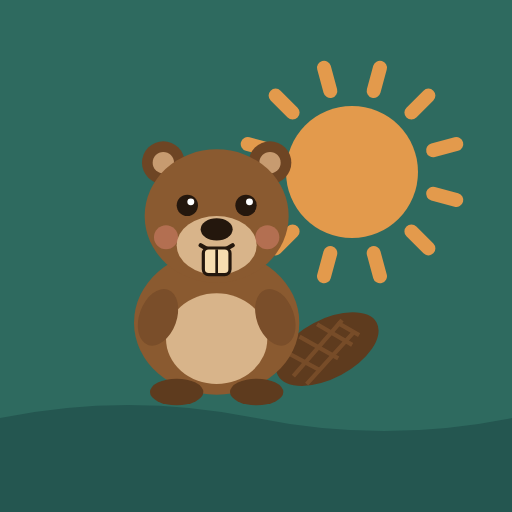
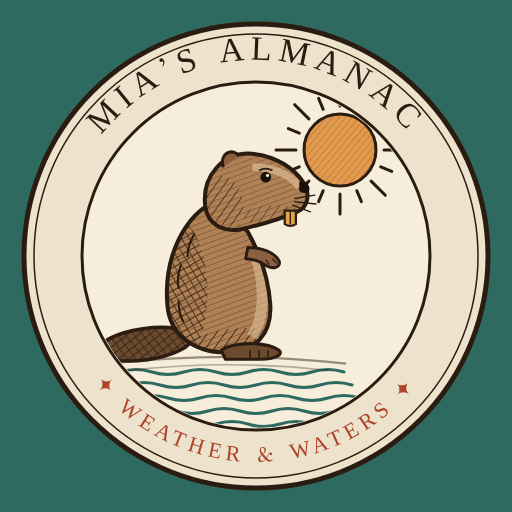
Redraw the beaver as an almanac engraving
- Side-view beaver in ink linework with hatching and a hand-tinted wash
- Medallion logo in the masthead; app icon is a seal reading
  "Mia's Almanac · Weather & Waters"
- Weather outfits redrawn to match (umbrella, knit cap and muffler, dark spectacles)

Claude-Session: https://claude.ai/code/session_012ajPJ2dUZoqjMvSPRPJZjM

diff --git a/index.html b/index.html
@@ -55,7 +55,7 @@ button{cursor:pointer}
 /* masthead: an almanac title block */
 .mast{display:flex;flex-direction:column;align-items:center;gap:2px;padding:6px 0 10px;border-bottom:3px double var(--line);text-align:center}
 .brandrow{display:flex;align-items:center;gap:10px}
-.logo{width:44px;height:40px;flex:none}
+.logo{width:52px;height:52px;flex:none}
 .brand{font-family:var(--f-display);font-size:34px;line-height:1;letter-spacing:.01em}
 .mast .sub{display:flex;gap:10px;align-items:center;flex-wrap:wrap;justify-content:center}
 .mast .sub .where{font-family:var(--f-display);font-style:italic;font-size:17px;color:var(--muted)}
@@ -233,44 +233,59 @@ footer{font-size:12px;color:var(--muted);display:flex;flex-direction:column;gap:
     <symbol id="i-snow" viewBox="0 0 24 24"><path d="M7 14.5h10.2a4.1 4.1 0 0 0 .4-8.2A5.6 5.6 0 0 0 6.6 6 4.3 4.3 0 0 0 7 14.5z" fill="var(--muted)"/><g fill="var(--snow)"><circle cx="7.5" cy="18" r="1.4"/><circle cx="12" cy="20.5" r="1.4"/><circle cx="16.5" cy="18" r="1.4"/></g></symbol>
     <symbol id="i-storm" viewBox="0 0 24 24"><path d="M7 14h10.2a4.1 4.1 0 0 0 .4-8.2A5.6 5.6 0 0 0 6.6 5.5 4.3 4.3 0 0 0 7 14z" fill="var(--muted)"/><path d="M12.5 13l-3 5h3l-1.5 4.5 4.5-6h-3l1.5-3.5z" fill="var(--warm)"/></symbol>
     <symbol id="i-fog" viewBox="0 0 24 24"><g stroke="var(--muted)" stroke-width="2" stroke-linecap="round"><path d="M4 9h16M6 13h12M4 17h16"/></g></symbol>
+<pattern id="bv-hatch" patternUnits="userSpaceOnUse" width="3.2" height="3.2" patternTransform="rotate(35)"><line x1="0" y1="0" x2="0" y2="3.2" stroke="#3A2717" stroke-width=".8"/></pattern>
+<pattern id="bv-xhatch" patternUnits="userSpaceOnUse" width="3" height="3" patternTransform="rotate(-30)"><path d="M0 0V3M0 0H3" stroke="#3A2717" stroke-width=".8"/></pattern>
+<pattern id="bv-fine" patternUnits="userSpaceOnUse" width="2.4" height="2.4" patternTransform="rotate(70)"><line x1="0" y1="0" x2="0" y2="2.4" stroke="#3A2717" stroke-width=".55"/></pattern>
+<clipPath id="bv-body"><path d="M54 37 C40 43 30 62 32 84 C33 97 44 105 58 105 C71 105 79 97 78 83 C77 70 73 60 68 51 Z"/></clipPath>
+<clipPath id="bv-head"><path d="M49 40 C47 26 57 15 70 16 C81 17 89 23 93 29 C96 34 95 40 90 42 C83 45 73 48 64 50 C56 51 50 47 49 40 Z"/></clipPath>
 <symbol id="beaver" viewBox="0 0 120 120">
-  <!-- tail: flat paddle with crosshatch -->
-  <g transform="rotate(-28 92 92)">
-    <ellipse cx="96" cy="94" rx="21" ry="11" fill="#5E3B1E"/>
-    <g stroke="#7A4E2A" stroke-width="1.6" opacity=".9">
-      <path d="M82 88 l8 12 M89 85 l9 14 M97 84 l8 13 M104 87 l5 8"/>
-      <path d="M80 97 l26 -10 M83 102 l25 -9"/>
-    </g>
+  <!-- ground shadow -->
+  <path d="M6 110 Q60 104 112 110" fill="none" stroke="#3A2717" stroke-width="1" opacity=".5"/>
+  <path d="M14 113 Q60 108 104 113" fill="none" stroke="#3A2717" stroke-width=".7" opacity=".35"/>
+  <!-- tail: flat paddle, cross-hatched scales -->
+  <g transform="rotate(-8 24 101)">
+    <ellipse cx="22" cy="101" rx="21" ry="7" fill="#6B4A2E"/>
+    <ellipse cx="22" cy="101" rx="21" ry="7" fill="url(#bv-xhatch)"/>
+    <ellipse cx="22" cy="101" rx="21" ry="7" fill="none" stroke="#2A1C10" stroke-width="1.6"/>
   </g>
-  <!-- body -->
-  <ellipse cx="55" cy="82" rx="31" ry="27" fill="#8A5A30"/>
-  <ellipse cx="55" cy="88" rx="19" ry="17" fill="#D8B48A"/>
-  <!-- feet -->
-  <ellipse cx="40" cy="108" rx="10" ry="5" fill="#5E3B1E"/>
-  <ellipse cx="70" cy="108" rx="10" ry="5" fill="#5E3B1E"/>
-  <!-- arms -->
-  <ellipse cx="33" cy="80" rx="7" ry="11" fill="#7A4E2A" transform="rotate(20 33 80)"/>
-  <ellipse cx="77" cy="80" rx="7" ry="11" fill="#7A4E2A" transform="rotate(-20 77 80)"/>
-  <!-- ears -->
-  <circle cx="35" cy="22" r="8" fill="#6E4524"/><circle cx="35" cy="22" r="4" fill="#C79B70"/>
-  <circle cx="75" cy="22" r="8" fill="#6E4524"/><circle cx="75" cy="22" r="4" fill="#C79B70"/>
+  <!-- body: tinted wash, light hatch, darker shading on the back -->
+  <path d="M54 37 C40 43 30 62 32 84 C33 97 44 105 58 105 C71 105 79 97 78 83 C77 70 73 60 68 51 Z" fill="#B08155"/>
+  <g clip-path="url(#bv-body)">
+    <rect x="20" y="30" width="70" height="80" fill="url(#bv-fine)" opacity=".55"/>
+    <ellipse cx="34" cy="78" rx="16" ry="34" fill="url(#bv-xhatch)" opacity=".9"/>
+    <ellipse cx="66" cy="102" rx="22" ry="8" fill="url(#bv-hatch)"/>
+    <path d="M70 58 C76 72 76 88 70 98" fill="none" stroke="#E2C59E" stroke-width="5" opacity=".55"/>
+  </g>
+  <path d="M54 37 C40 43 30 62 32 84 C33 97 44 105 58 105 C71 105 79 97 78 83 C77 70 73 60 68 51 Z" fill="none" stroke="#2A1C10" stroke-width="1.8" stroke-linejoin="round"/>
+  <!-- fur strokes along the back -->
+  <path d="M44 52 q-3 5 -3 10 M38 66 q-2 5 -1 10 M37 82 q0 5 2 9" fill="none" stroke="#2A1C10" stroke-width=".9" stroke-linecap="round"/>
+  <!-- hind foot -->
+  <path d="M56 104 C62 100 76 100 82 104 C84 106 80 108 74 108 L58 108 Z" fill="#6B4A2E" stroke="#2A1C10" stroke-width="1.4" stroke-linejoin="round"/>
+  <path d="M77 104 v3 M73 104 v3.5 M69 104 v3.5" stroke="#2A1C10" stroke-width=".7"/>
   <!-- head -->
-  <ellipse cx="55" cy="42" rx="27" ry="25" fill="#8A5A30"/>
-  <!-- muzzle -->
-  <ellipse cx="55" cy="53" rx="15" ry="11" fill="#D8B48A"/>
-  <!-- cheeks -->
-  <circle cx="36" cy="50" r="4.5" fill="#E58A7A" opacity=".45"/>
-  <circle cx="74" cy="50" r="4.5" fill="#E58A7A" opacity=".45"/>
-  <!-- eyes -->
-  <circle cx="44" cy="38" r="4" fill="#24170D"/><circle cx="45.3" cy="36.7" r="1.3" fill="#fff"/>
-  <circle cx="66" cy="38" r="4" fill="#24170D"/><circle cx="67.3" cy="36.7" r="1.3" fill="#fff"/>
+  <path d="M49 40 C47 26 57 15 70 16 C81 17 89 23 93 29 C96 34 95 40 90 42 C83 45 73 48 64 50 C56 51 50 47 49 40 Z" fill="#B08155"/>
+  <g clip-path="url(#bv-head)">
+    <rect x="45" y="12" width="52" height="42" fill="url(#bv-fine)" opacity=".5"/>
+    <ellipse cx="56" cy="40" rx="10" ry="14" fill="url(#bv-hatch)" opacity=".85"/>
+    <ellipse cx="80" cy="44" rx="14" ry="5" fill="url(#bv-hatch)" opacity=".6"/>
+    <path d="M70 22 C80 22 88 26 91 31" fill="none" stroke="#E2C59E" stroke-width="3.5" opacity=".6"/>
+  </g>
+  <path d="M49 40 C47 26 57 15 70 16 C81 17 89 23 93 29 C96 34 95 40 90 42 C83 45 73 48 64 50 C56 51 50 47 49 40 Z" fill="none" stroke="#2A1C10" stroke-width="1.8" stroke-linejoin="round"/>
+  <!-- ear -->
+  <path d="M57 22 C55 16 61 13 64 17" fill="#8A6040" stroke="#2A1C10" stroke-width="1.4"/>
+  <!-- eye with highlight -->
+  <circle cx="76" cy="26.5" r="2.4" fill="#1A120A"/><circle cx="76.8" cy="25.7" r=".7" fill="#F6EEDB"/>
+  <path d="M73 23.5 q3 -1.6 6 0" fill="none" stroke="#2A1C10" stroke-width=".8"/>
   <!-- nose -->
-  <ellipse cx="55" cy="47" rx="6" ry="4.2" fill="#24170D"/>
-  <!-- mouth -->
-  <path d="M49 53 q6 4 12 0" fill="none" stroke="#24170D" stroke-width="1.6" stroke-linecap="round"/>
-  <!-- teeth -->
-  <rect x="50" y="54" width="10" height="10" rx="2" fill="#F7DDB0" stroke="#24170D" stroke-width="1.2"/>
-  <line x1="55" y1="54.5" x2="55" y2="63.5" stroke="#24170D" stroke-width="1"/>
+  <path d="M91 28.5 C94 28 96 30 95.5 32.5 C94.5 34 92 34 91 32.5 Z" fill="#1A120A"/>
+  <!-- whiskers -->
+  <path d="M89 36 l9 -1.5 M89 37.5 l9.5 1 M88 39 l8 3" stroke="#2A1C10" stroke-width=".6" stroke-linecap="round"/>
+  <!-- the famous orange teeth -->
+  <path d="M84.5 41.5 h5 v6 q-2.5 1.5 -5 0 Z" fill="#E7A34A" stroke="#2A1C10" stroke-width="1"/>
+  <line x1="87" y1="41.8" x2="87" y2="47.6" stroke="#2A1C10" stroke-width=".6"/>
+  <!-- front paws, held at the chest -->
+  <path d="M68 58 C74 58 80 60 82 64 C83 67 79 68 76 66 C73 64 70 63 67 63 Z" fill="#8A6040" stroke="#2A1C10" stroke-width="1.3" stroke-linejoin="round"/>
+  <path d="M79 63 l2 2 M76 63.5 l1.5 2.2" stroke="#2A1C10" stroke-width=".6"/>
 </symbol>
     <symbol id="i-fish" viewBox="0 0 28 16"><path d="M2 8c3.5-5.5 11-6.5 17-2.2L25.5 1.5v13L19 10.2C13 14.5 5.5 13.5 2 8z"/><circle cx="7" cy="7" r="1.3" fill="var(--surface)"/></symbol>
   </defs>
@@ -278,7 +293,7 @@ footer{font-size:12px;color:var(--muted);display:flex;flex-direction:column;gap:
 
 <div class="wrap">
   <header class="mast">
-    <div class="brandrow"><svg class="logo" viewBox="20 8 70 64" aria-hidden="true"><use href="#beaver" width="120" height="120"/></svg><div class="brand">Mia's Almanac</div></div>
+    <div class="brandrow"><svg class="logo" viewBox="0 0 120 120" aria-hidden="true"><defs><clipPath id="logo-clip"><circle cx="60" cy="60" r="50"/></clipPath></defs><circle cx="60" cy="60" r="57" fill="#F6EEDB" stroke="#2A1C10" stroke-width="3"/><circle cx="60" cy="60" r="50" fill="none" stroke="#2A1C10" stroke-width="1.2"/><g clip-path="url(#logo-clip)"><path d="M14 98 q8 -3 16 0 t16 0 t16 0 t16 0 t16 0 t16 0 M18 106 q8 -3 16 0 t16 0 t16 0 t16 0 t16 0" fill="none" stroke="#2E6A5F" stroke-width="2"/><use href="#beaver" x="6" y="0" width="108" height="108"/></g></svg><div class="brand">Mia's Almanac</div></div>
     <div class="sub"><span class="where" id="where">—</span><span class="mode" id="mode">sample</span></div>
   </header>
 
@@ -861,26 +876,31 @@ function beaverOutfit(h) {
   const wet = !snowy && h.code >= 51;
   const cold = snowy || h.temp <= 38;
   const sunny = !wet && !cold && h.code <= 1 && h.isDay && h.temp >= 72;
+  const ink = 'stroke="#2A1C10" stroke-width="1.5" stroke-linejoin="round"';
   let back = "", front = "";
   if (wet) {
-    // umbrella held in the right paw
-    back = `<g transform="translate(22 0)"><path d="M8 4 Q58 -46 110 4 Q101 -3 92 4 Q84 -3 76 4 Q67 -3 59 4 Q50 -3 42 4 Q33 -3 25 4 Q16 -3 8 4Z" fill="var(--accent)"/>
-      <path d="M59 -21 V4" stroke="var(--surface)" stroke-width="1.5" opacity=".5"/></g>`;
-    front = `<path d="M81 4 V82 q0 7 -6 7" fill="none" stroke="#3B2416" stroke-width="3" stroke-linecap="round"/>
-      <g fill="#7FB2D6"><path d="M20 22 q-3 6 0 8 q3 -2 0 -8z"/><path d="M100 30 q-3 6 0 8 q3 -2 0 -8z"/><path d="M14 52 q-3 6 0 8 q3 -2 0 -8z"/></g>`;
+    // an old black umbrella, held in her front paws
+    back = `<path d="M28 0 Q80 -48 132 0 Q123 -6 115 0 Q106 -6 97 0 Q89 -6 80 0 Q71 -6 63 0 Q54 -6 45 0 Q37 -6 28 0Z" fill="var(--accent)" ${ink}/>
+      <path d="M28 0 Q80 -48 132 0Z" fill="url(#bv-hatch)" opacity=".35"/>
+      <path d="M80 -24 V0 M80 -24 Q62 -16 45 0 M80 -24 Q98 -16 115 0" fill="none" stroke="#2A1C10" stroke-width=".8"/>`;
+    front = `<path d="M80 0 V66 q0 6 -5 6" fill="none" stroke="#2A1C10" stroke-width="2.6" stroke-linecap="round"/>
+      <g stroke="#3B6E8F" stroke-width="1.3" stroke-linecap="round"><path d="M16 14 l-2 6 M8 40 l-2 6 M24 60 l-2 6 M126 20 l-2 6 M120 46 l-2 6"/></g>`;
   } else if (cold) {
-    // knit hat with pom-pom, and a striped scarf
-    front = `<path d="M30 30 Q32 2 55 2 Q78 2 80 30 Z" fill="var(--warm)"/>
-      <rect x="28" y="24" width="54" height="9" rx="4" fill="#F3E6CC"/>
-      <circle cx="55" cy="1" r="7" fill="#F3E6CC"/>
-      <path d="M30 62 Q55 74 80 62 L80 70 Q55 82 30 70 Z" fill="var(--warm)"/>
-      <path d="M66 68 l4 22 l9 -2 l-5 -21z" fill="var(--warm)"/>
-      <path d="M40 66 v6 M50 69 v6 M60 69 v6 M70 66 v6" stroke="#F3E6CC" stroke-width="2.5"/>
-      ${snowy ? `<g fill="#fff" stroke="#9FC4DC" stroke-width=".8"><circle cx="14" cy="18" r="3"/><circle cx="102" cy="10" r="2.5"/><circle cx="8" cy="60" r="2.5"/><circle cx="108" cy="48" r="3"/></g>` : ""}`;
+    // knitted cap with a bobble, and a long striped muffler
+    front = `<path d="M55 25 Q56 6 72 5 Q87 5 89 23 Q72 17 55 25Z" fill="var(--warm)" ${ink}/>
+      <path d="M60 18 l2 -6 M66 14 l1 -7 M73 13 v-7 M80 14 l1 -6 M85 18 l1 -5" stroke="#2A1C10" stroke-width=".7" opacity=".7"/>
+      <path d="M54 26 Q72 16 90 24 L90 29 Q72 21 54 31Z" fill="#F3E6CC" ${ink}/>
+      <circle cx="72" cy="3" r="5" fill="#F3E6CC" ${ink}/>
+      <path d="M50 44 Q62 54 74 47 L75 53 Q62 61 49 51Z" fill="var(--warm)" ${ink}/>
+      <path d="M52 49 L45 72 L52 74 L57 52Z" fill="var(--warm)" ${ink}/>
+      <path d="M57 49 l-1 7 M64 51 l0 7 M70 49 l1 6 M48 62 l6 2" stroke="#F3E6CC" stroke-width="2"/>
+      <path d="M45 72 l-1 4 M48 73 l-1 4 M51 74 l0 4" stroke="#2A1C10" stroke-width=".9"/>
+      ${snowy ? `<g fill="#fff" stroke="#2A1C10" stroke-width=".7"><circle cx="16" cy="18" r="2.6"/><circle cx="110" cy="8" r="2.2"/><circle cx="10" cy="58" r="2.2"/><circle cx="112" cy="54" r="2.6"/><circle cx="30" cy="38" r="1.8"/></g>` : ""}`;
   } else if (sunny) {
-    // sunglasses
-    front = `<g><rect x="34" y="31" width="18" height="12" rx="5" fill="#1F2A30"/><rect x="58" y="31" width="18" height="12" rx="5" fill="#1F2A30"/>
-      <path d="M52 36 h6" stroke="#1F2A30" stroke-width="2.5"/><path d="M37 34 l5 -1" stroke="#fff" stroke-width="1.5" opacity=".6"/></g>`;
+    // round spectacles, darkened for the sun
+    front = `<circle cx="77" cy="26.5" r="5.4" fill="#1F2A30" stroke="#2A1C10" stroke-width="1.3"/>
+      <path d="M74.5 24 l3 -1.2" stroke="#F6EEDB" stroke-width="1" opacity=".7"/>
+      <path d="M71.6 26 L60 23.5" stroke="#2A1C10" stroke-width="1.3"/>`;
   }
   return `<svg viewBox="-4 -26 140 150" aria-hidden="true">${back}<use href="#beaver" width="120" height="120"/>${front}</svg>`;
 }

diff --git a/sw.js b/sw.js
@@ -1,5 +1,5 @@
 // Mia's Almanac service worker: caches the app so it opens with no signal. The last forecast is kept by the page itself.
-const VERSION = "ma-v2";
+const VERSION = "ma-v3";
 const SHELL = ["./", "index.html", "icon-64.png", "icon-180.png", "icon-512.png", "manifest.json"];
 self.addEventListener("install", (e) => { e.waitUntil(caches.open(VERSION).then((c) => c.addAll(SHELL)).then(() => self.skipWaiting())); });
 self.addEventListener("activate", (e) => { e.waitUntil(caches.keys().then((keys) => Promise.all(keys.filter((k) => k !== VERSION).map((k) => caches.delete(k)))).then(() => self.clients.claim())); });
